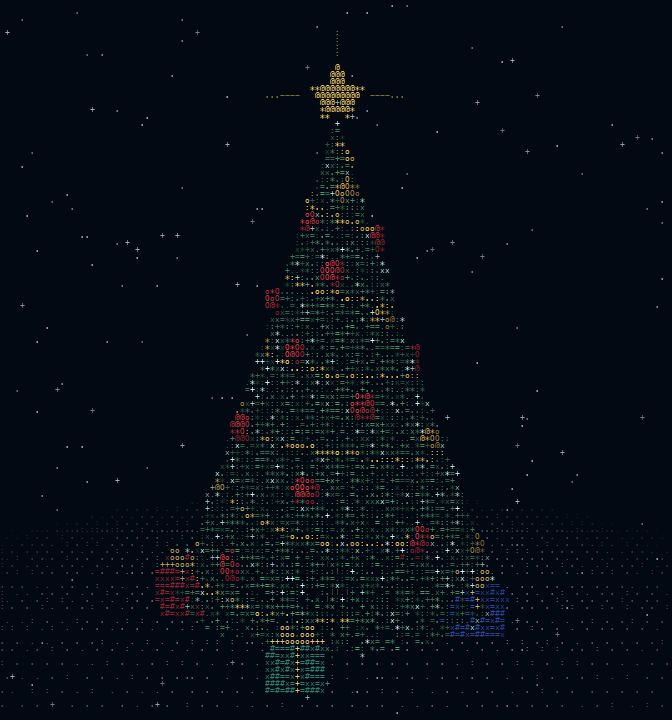
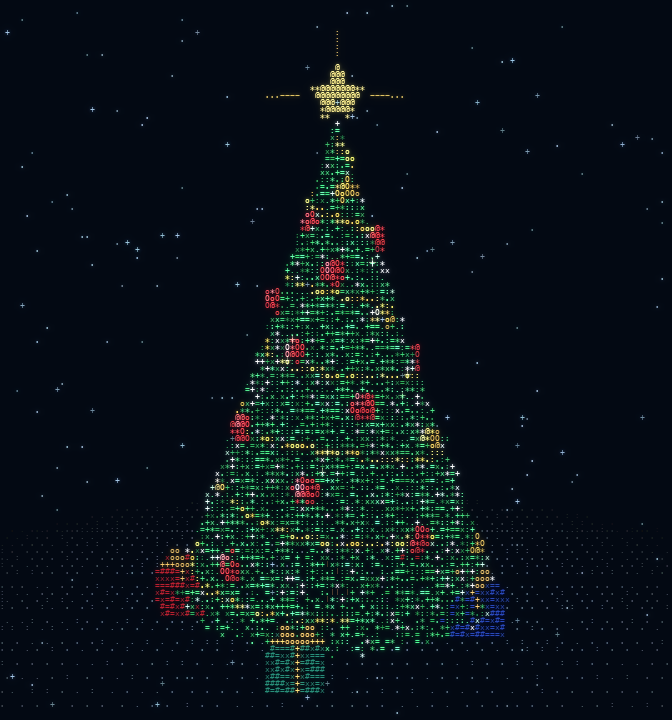
Brighten ASCII tree with glowing lights and sparkling highlights

Changed region(s): [[0.2188, 0.0917, 0.75, 0.9167]]

diff --git a/generate_tree.py b/generate_tree.py
@@ -45,19 +45,19 @@ def scene():
             angle = j / count * TAU + rng.uniform(-0.012, 0.012)
             rr = r * rng.uniform(0.9, 1.035)
             v = rng.random()
-            color = (int(28 + v * 53), int(82 + v * 70), int(56 + v * 51))
-            add(rr * math.cos(angle), y + rng.uniform(-0.014, 0.014), rr * math.sin(angle), rng.choice(".,:;+=x*"), color, 0.12)
+            color = (int(42 + v * 62), int(142 + v * 95), int(82 + v * 77))
+            add(rr * math.cos(angle), y + rng.uniform(-0.014, 0.014), rr * math.sin(angle), rng.choice(".,:;+=x*"), color, 0.25)
         # A scattering of frosty branch tips.
         for j in range(max(1, count // 22)):
             a = rng.random() * TAU
-            add(r * 1.045 * math.cos(a), y, r * 1.045 * math.sin(a), rng.choice("+*x"), (155, 202, 184), 0.55)
+            add(r * 1.045 * math.cos(a), y, r * 1.045 * math.sin(a), rng.choice("+*x"), (207, 255, 231), 0.75)
 
     # A warm gold beaded garland winds six times around the tree.
     for i in range(1500):
         y = 0.22 + i / 1499 * 5.55
         a = y / 5.55 * TAU * 6
         r = radius(y) + 0.045
-        add(r * math.cos(a), y, r * math.sin(a), rng.choice("o.:*"), (220, 182, 79), 0.25)
+        add(r * math.cos(a), y, r * math.sin(a), rng.choice("o.:*"), (255, 222, 110), 0.55)
 
     # Round red and gold ornaments, modeled as small spheres.
     for i in range(25):
@@ -72,9 +72,12 @@ def scene():
             for lon in range(14):
                 theta = lon / 14 * TAU
                 dx, dy, dz = size * math.sin(phi) * math.cos(theta), size * math.cos(phi), size * math.sin(phi) * math.sin(theta)
-                lit = 0.62 + 0.38 * max(0, (-dx + dy + dz) / (size * 1.73))
-                base = (248, 60, 70) if red else (248, 198, 87)
-                add(cx + dx, y + dy, cz + dz, rng.choice("oO@*"), tuple(int(c * lit) for c in base), 0.08)
+                normal_light = max(0, (-dx + dy + dz) / (size * 1.73))
+                lit = 0.8 + 0.2 * normal_light
+                base = (255, 82, 94) if red else (255, 221, 117)
+                specular = 0.8 * normal_light ** 10
+                color = tuple(min(255, int(c * lit + (255 - c) * specular)) for c in base)
+                add(cx + dx, y + dy, cz + dz, rng.choice("oO@*"), color, 0.25)
 
     # A short trunk, mostly visible between the lowest branches and the ground.
     for i in range(200):
@@ -157,7 +160,7 @@ def renderer():
 
         for x, y, z, ch, rgb, shine, phase in points:
             front = -sa * x + ca * z
-            shade = 0.54 + 0.46 * (front / max(0.15, math.hypot(x, z)) + 1) / 2
+            shade = 0.74 + 0.26 * (front / max(0.15, math.hypot(x, z)) + 1) / 2
             shimmer = 1 + shine * (0.5 + 0.5 * math.sin(angle * 3 + phase))
             color = tuple(min(255, int(c * shade * shimmer)) for c in rgb)
             project(x, y, z, ch, color)
@@ -184,12 +187,12 @@ def renderer():
         for iy in range(-5, 6):
             for ix in range(-7, 8):
                 if inside(ix / 7, iy / 5):
-                    project(ix * 0.061, star_y - iy * 0.085, 0.1, "*" if abs(ix) + abs(iy) > 4 else "@", (255, 218 + int(18 * math.sin(angle) ** 2), 102), rotating=False, priority=5)
+                    project(ix * 0.061, star_y - iy * 0.085, 0.1, "*" if abs(ix) + abs(iy) > 4 else "@", (255, 238 + int(17 * math.sin(angle) ** 2), 157), rotating=False, priority=5)
         for i in [-1, 1]:
             for j in range(8, 15):
-                project(i * j * 0.06, star_y, 0.1, "." if j > 11 else "-", (123, 108, 63), rotating=False)
+                project(i * j * 0.06, star_y, 0.1, "." if j > 11 else "-", (202, 177, 98), rotating=False)
             for j in range(6, 10):
-                project(0, star_y + i * j * 0.085, 0.1, ":", (137, 119, 68), rotating=False)
+                project(0, star_y + i * j * 0.085, 0.1, ":", (215, 186, 104), rotating=False)
 
         # All snowflakes travel an integer number of screen heights per loop.
         # Wrapping offscreen makes the last-to-first frame a normal time step.
@@ -206,10 +209,32 @@ def renderer():
         image = Image.new("RGB", (WIDTH, HEIGHT), BACKGROUND)
         for (x, y), (_, char, color) in cells.items():
             image.paste(stamp(char, color), (x * CELL_X, y * CELL_Y))
-        # A restrained bloom preserves the readable characters.
-        glow = image.point(lambda v: max(0, v - 115) * 0.25).filter(ImageFilter.GaussianBlur(3))
+
+        # Brief, staggered glints on visible branch tips and garland beads.
+        # Periodic phases preserve the seamless rotation and snowfall loop.
+        glints = Image.new("RGB", (WIDTH, HEIGHT))
+        pen = ImageDraw.Draw(glints)
+        for (x, y), (depth, char, color) in cells.items():
+            if not (15 < y < 90 and 25 < x < cols - 25 and depth > 0):
+                continue
+            if char not in "+*xo" or (x * 19 + y * 31) % 37:
+                continue
+            phase = ((x * 17 + y * 43) % 101) / 101 * TAU
+            pulse = max(0, math.sin(angle * 3 + phase)) ** 18
+            if pulse < 0.2:
+                continue
+            cx, cy = x * CELL_X + 2, y * CELL_Y + 3
+            glow_color = tuple(int(c * pulse) for c in (255, 248, 201))
+            pen.line((cx - 3, cy, cx + 3, cy), fill=glow_color)
+            pen.line((cx, cy - 4, cx, cy + 4), fill=glow_color)
+
         from PIL import ImageChops
-        return ImageChops.add(image, glow)
+        image = ImageChops.add(image, glints)
+        # Two soft halos make the lights shine while keeping crisp ASCII cores.
+        highlights = image.point(lambda v: max(0, v - 85))
+        glow = highlights.filter(ImageFilter.GaussianBlur(1.5)).point(lambda v: v * 0.95)
+        halo = highlights.filter(ImageFilter.GaussianBlur(4)).point(lambda v: v * 0.65)
+        return ImageChops.add(ImageChops.add(image, glow), halo)
 
     return render
 
